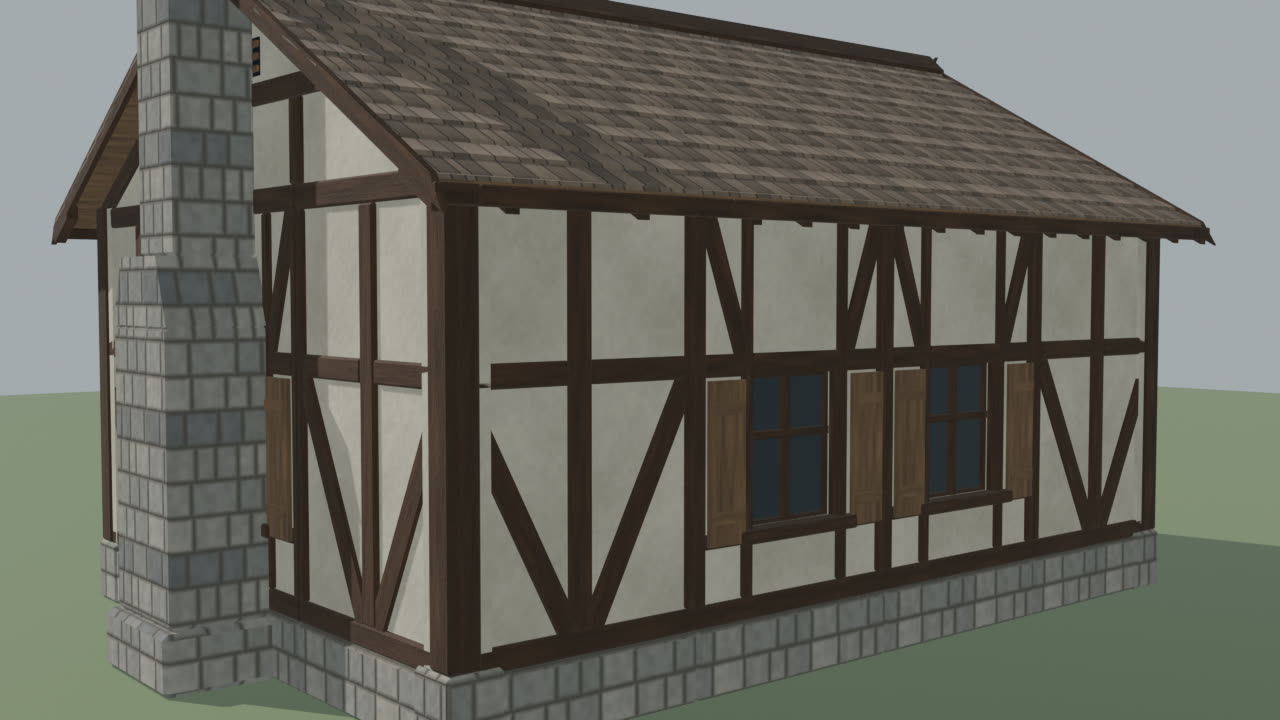
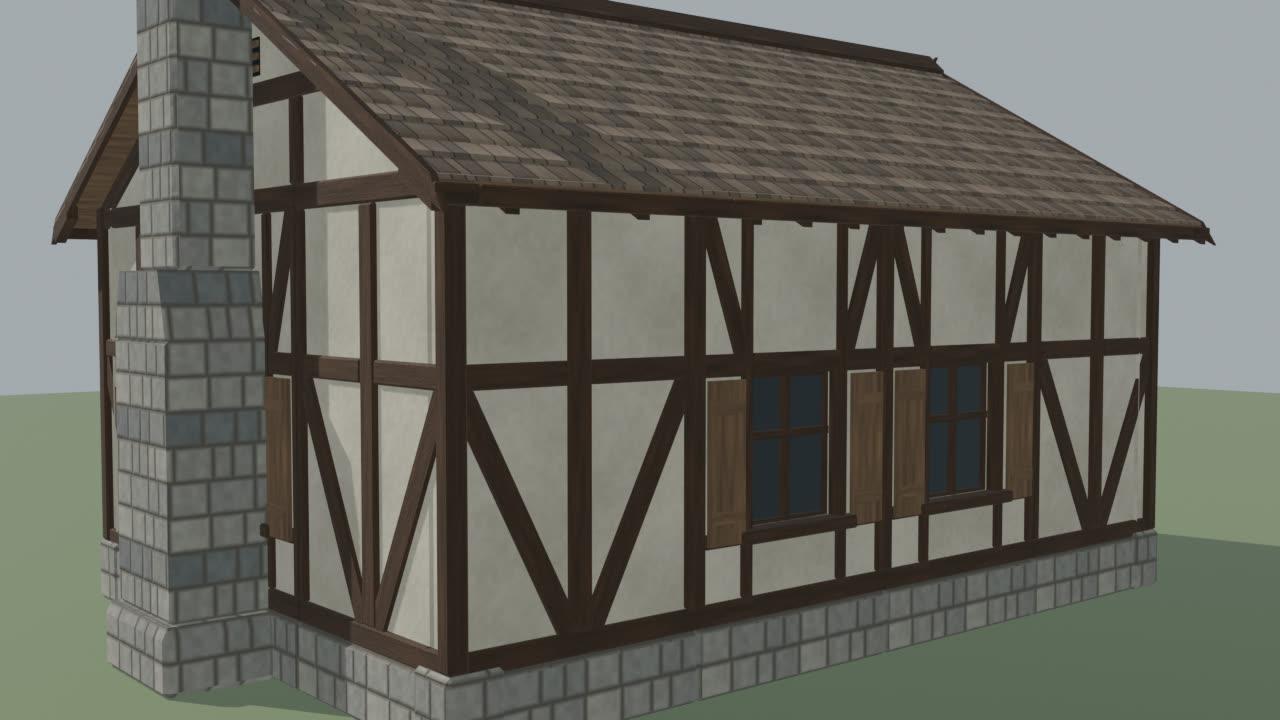
Document the shared corner post, quoined stone and new house renders (#672)

diff --git a/docs/outpost-kit.md b/docs/outpost-kit.md
@@ -57,12 +57,14 @@ outpost["build_composition"]("house", bpy.context.scene.collection, wear=0.5)
 | `outpost.kit.roof` | roof | 350 | 2.00 × 6.73 × 2.22 | `roof` |
 | `outpost.kit.roof-half` | roof | 302 | 1.00 × 6.73 × 2.22 | `roof` |
 | `outpost.kit.roof-verge` | roof | 366 | 0.30 × 6.85 × 2.23 | `roof` |
-| `outpost.kit.wall` | wall | 404 | 2.00 × 0.34 × 3.60 | `wall` |
-| `outpost.kit.wall-door` | wall | 596 | 2.00 × 0.54 × 3.68 | `left-jamb`, `right-jamb`, `lintel` |
-| `outpost.kit.wall-half` | wall | 296 | 1.00 × 0.34 × 3.60 | `wall` |
-| `outpost.kit.wall-window` | wall | 682 | 2.00 × 0.38 × 3.60 | `wall` |
+| `outpost.kit.wall` | wall | 384 | 2.00 × 0.34 × 3.60 | `wall` |
+| `outpost.kit.wall-door` | wall | 572 | 2.00 × 0.54 × 3.68 | `left-jamb`, `right-jamb`, `lintel` |
+| `outpost.kit.wall-half` | wall | 276 | 1.00 × 0.34 × 3.60 | `wall` |
+| `outpost.kit.wall-window` | wall | 650 | 2.00 × 0.38 × 3.60 | `wall` |
 
-The numbers are from the build of 2026-11-07 (pristine variants; the roof modules are unchanged), and for `wall-door` and `wall-window` from 2026-11-16 ([#672](https://github.com/moritzbrantner/asset-tooling/issues/672)). The descriptor carries the measured values of each build.
+The numbers are from the build of 2026-11-07 (pristine variants; the roof modules are unchanged), and for the wall modules from 2026-11-16 ([#672](https://github.com/moritzbrantner/asset-tooling/issues/672)), which changed no module's bounds, footprint or collision. The descriptor carries the measured values of each build.
+
+The frame is continuous: every timber ends on another member's face. Posts run from the sill beam (or a door post's stone pad) to the top plate, rails and the sill beam and top plate run from post to post, and braces run from a post or stud at a rail to a post at the next rail or the plate. Modules have no end caps: the faces in a wall module's end planes would only ever lie against its neighbour, or at a corner in the other wall's face, where they showed the plaster's and rails' cut ends.
 
 - **Walls:** each wall module has a 0.5 m stone plinth, plaster panels set 4 cm behind the timber face, a sill beam and a top plate. At each end stands half of a 0.18 m post, so two neighbouring modules make one post between them.
   - Every wall module carries a head rail at 2.25–2.41 m, so it reads as one timber around the building, and the window and door heads meet it. Braces are cut to their bay, so their ends sit flush against the posts, rails and sills.
@@ -71,11 +73,11 @@ The numbers are from the build of 2026-11-07 (pristine variants; the roof module
   - `wall-window` has a 0.9 × 1.1 m glazed window with its sill at 1.15 m. Studs run from the sill beam to the top plate either side of it, a sill rail and the head rail carry it (the head rail runs flush from post to stud and across the window as its lintel), and knee braces above the rail stay clear of the window and its open plank shutters. It has a mullion and a transom, a proud timber sill and a lintel.
   - `wall-door` has the inn's 1.2 × 2.2 m doorway. Its posts stand on stone pads and run the full storey up to the top plate. The head rail runs from each seam post to its door post, a lintel at the rail spans the doorway down to its 2.2 m head, and above it two braces rise from the door posts to meet under the top plate. A stone threshold sits flush with the ground. The empty node `door.hinge` marks where the door hangs.
 - **`door`:** a five-plank leaf with inside battens and a brace, iron strap hinges and a latch. Its origin is the hinge, and the closed leaf runs along +X. It has an empty node `hinge`.
-- **`corner`:** the corner post and a stone plinth block. It covers the overlap of the two walls that meet at a corner.
+- **`corner`:** the corner post and a stone plinth block. The 0.15 m post is the one both walls share: it covers the two walls' end half-posts and stands 2 cm proud, so their rails, sill beams, plates and braces end on it. The plinth block covers the overlap of the two plinths.
 - **`gable`:** the plaster gable triangle for the 6 m span. Rafters follow both roof edges, and every other gable timber ends on them: a collar cut to the rafters, two posts under it over the gable wall's module joints (clear of the window below) and a king post from the collar to the apex, with a louvred vent each side. It stands on a gable wall's top plate.
 - **`roof`, `roof-half`:** 2 m and 1 m sections of the 6 m span roof, built from overlapping courses that alternate slightly. Each has board sheathing, an eave fascia, rafter tails every 0.5 m and a board ridge cap.
 - **`roof-verge`:** the 0.3 m roof overhang beyond a gable, with barge boards.
-- **`chimney`:** an outside stone chimney against a gable wall: a foot, a breast, sloped shoulders and a stack that clears the ridge by about 0.75 m, with a cap. Its empty node `smoke` marks the flue.
+- **`chimney`:** an outside stone chimney against a gable wall: a 1.2 m foot to 0.5 m, a 1.0 m breast to 2.5 m, sloped shoulders to 3.0 m and a 0.75 m stack that clears the ridge by about 0.75 m, with a cap. Those widths and heights are on the stone's course grid, so its corners take whole quoins. Its empty node `smoke` marks the flue.
 
 ## Grid and frames
 
@@ -105,7 +107,7 @@ Notes for the consumer:
 The kit uses five tileable PBR texture sets of 512 px each: colour (sRGB), normal (OpenGL, +Y up) and ORM (occlusion, roughness, metallic).
 
 - **Plaster:** a warm lime plaster with blotches and trowel waves; one tile covers 2 m.
-- **Stone:** coursed rubble with four 0.25 m courses of irregular stones in dark mortar; one tile covers 1 m. The recipe lays every stone face in world-space courses when it builds a module (`course_stone`): box-projected UVs in metres with V the height above the ground and U running from each module's left end (2 m modules start on whole metres, `wall-half` on half metres) and on around the corners. So the plinth's and the chimney's courses meet across faces, corners and modules at one scale, whatever UVs the authored geometry carries.
+- **Stone:** coursed blocks in dark mortar: four 0.25 m courses of 0.5 m blocks in running bond, each course offset half a block, the joints wandering a few centimetres (`COURSE`, `bond`); one tile covers 1 m. The recipe lays every stone face on that grid in world-space metres when it builds a module (`course_stone`), whatever UVs the authored geometry carries. V is the height above the ground, so every course is level all round the building. U runs round each stone piece as one strip, from each module's left end on the plinths (2 m modules start on whole metres, `wall-half` on half metres) and from each chimney piece's left corner, and every outside corner falls a quarter block into a stone (`QUOIN`). So a corner stone shows a quarter on one face and three quarters round the other, the next course the other way round: the corners alternate like quoins, and the plinth's and the chimney's courses meet across faces, corners and modules at one scale.
 - **Wood:** grain along U; one tile covers 1 m. The timber frame uses it with a darker base-colour factor and the planks without one, so the frame and the planks share one image.
 - **Shingle:** weathered grey-brown shingles.
 - **Slate:** blue-grey slates.
